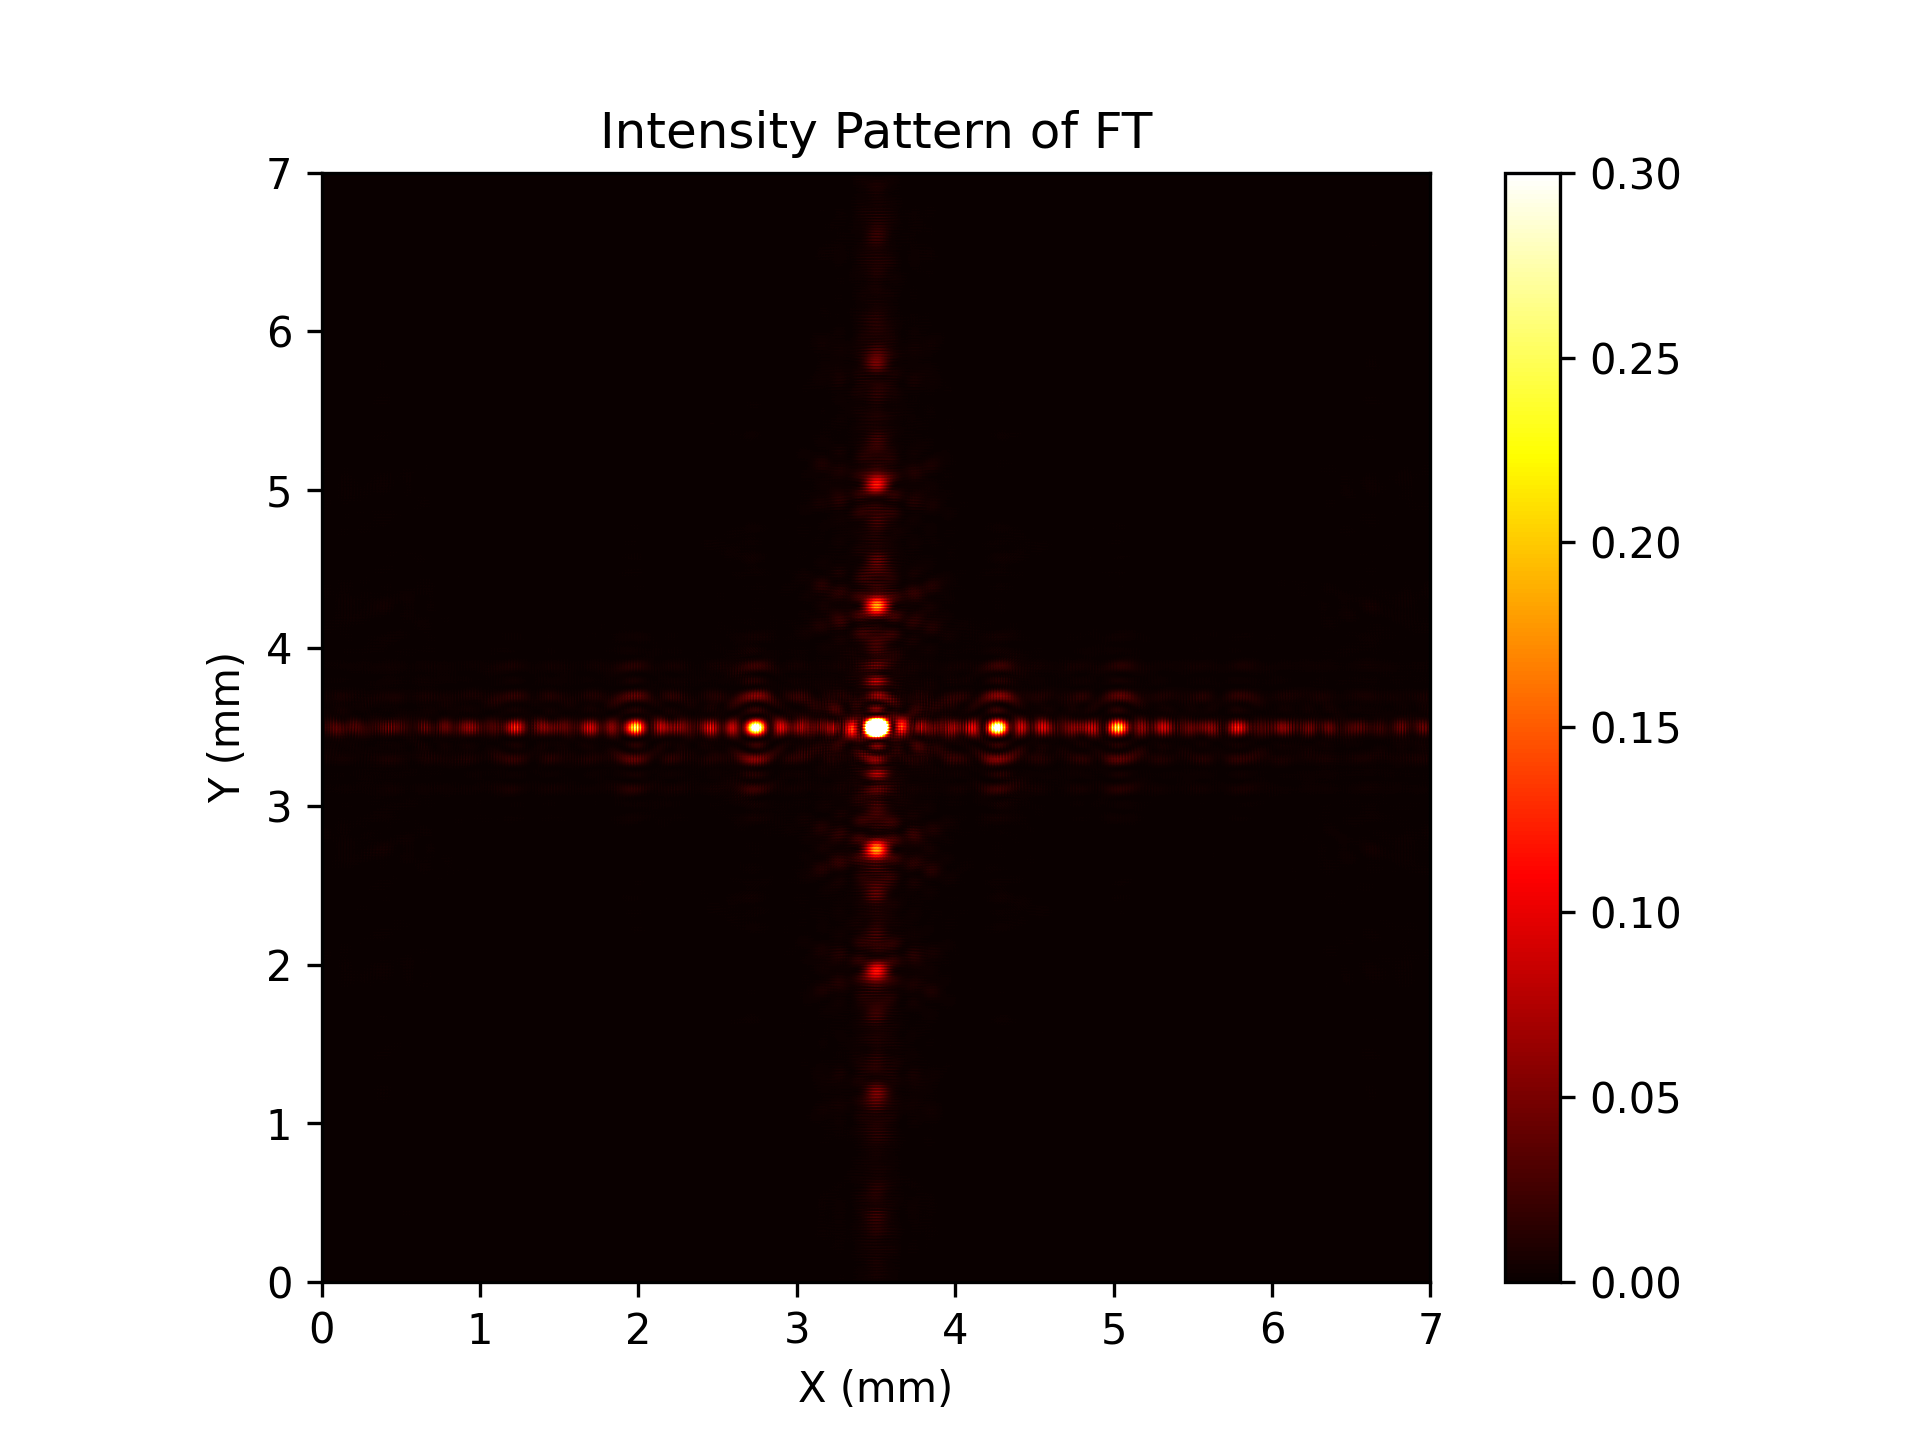
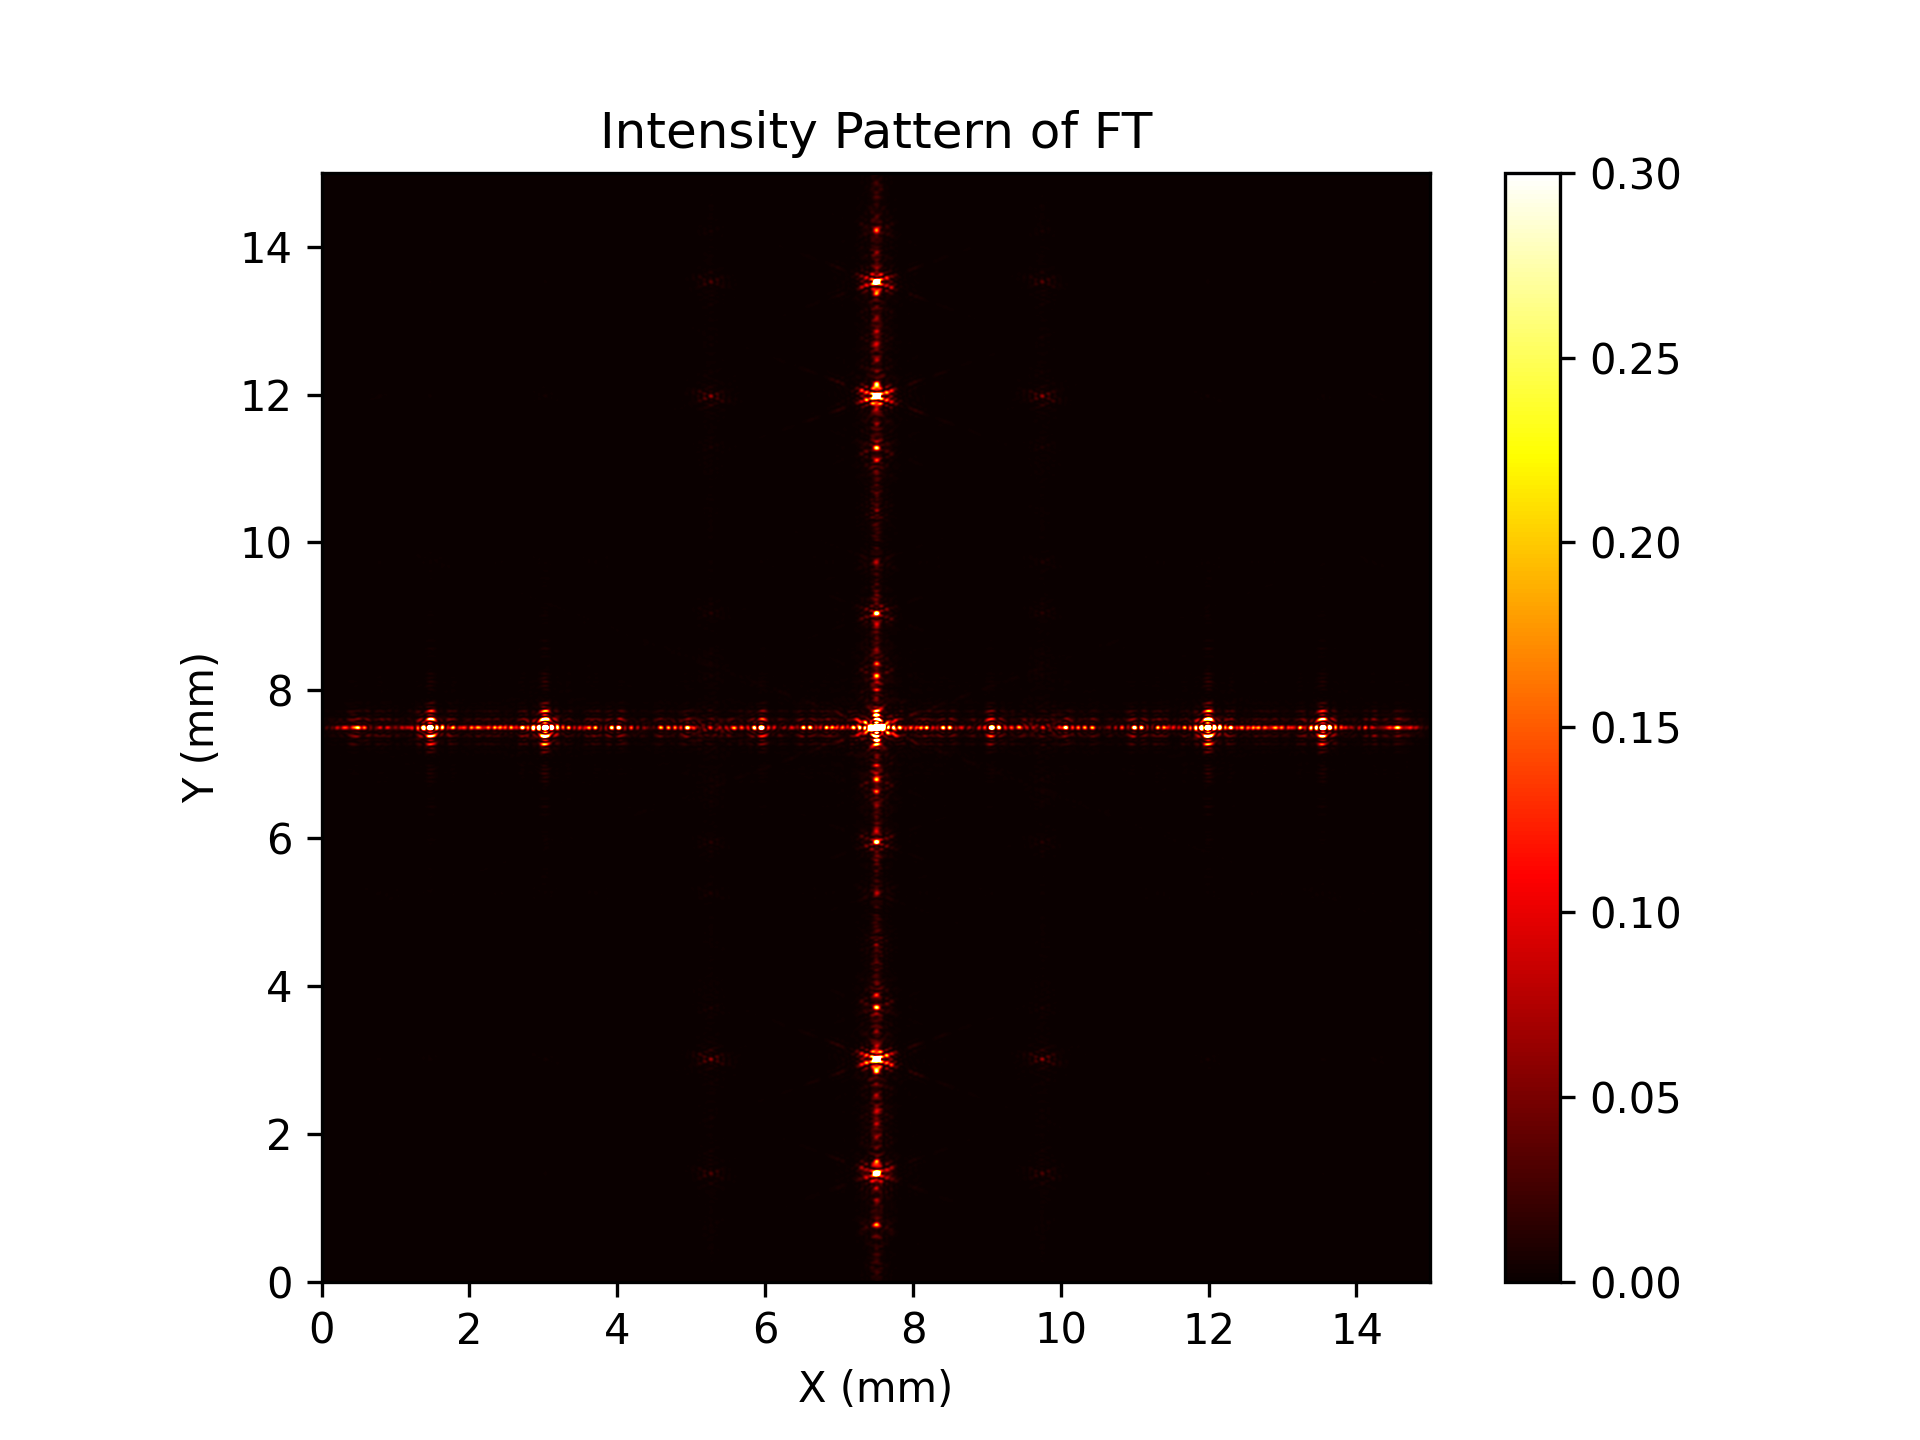
regreg

diff --git a/LP/OFT_new.py b/LP/OFT_new.py
@@ -3,10 +3,52 @@ import matplotlib.pyplot as plt
 import matplotlib.image as mpimg
 import numpy as np
 
-f=0.2*m # focal length of the lens
-gridsize=7*mm # size of the grid to adjust the resolution
+f=0.2475*m # focal length of the lens
+gridsize=15*mm # size of the grid to adjust the resolution
 wavelength=633*nm
+lambda_1 = 633 * (10**(-9)) # m
 
+# calcular as distâncias certas
+pixeis = 4096
+
+
+# Tamanho real de AB em metros
+alturatotal_unidadespc = 724
+larguratotal_unidadespc = 964
+altura_AB_unidades_pc = 290.03
+largura_AB_unidades_pc = 248.03
+pixeis_altura_AB = pixeis * altura_AB_unidades_pc / alturatotal_unidadespc
+pixeis_largura_AB = pixeis * largura_AB_unidades_pc / larguratotal_unidadespc
+print('Altura de AB em pixeis para uma altura de imagem de ' + str(pixeis) + ' pixeis: ' + str(pixeis_altura_AB) + ' pixeis') 
+print('Largura de AB em pixeis para uma largura de imagem de ' + str(pixeis) + ' pixeis: ' + str(pixeis_largura_AB) + ' pixeis')
+
+# em metros
+altura = 5.5 * (10**(-3)) # m
+largura = 5 * (10**(-3)) # m
+alturatotal_metros = alturatotal_unidadespc * altura / altura_AB_unidades_pc
+print('A altura total da imagem em metros é ' + str(alturatotal_metros) + ' m')
+
+
+
+# calcular o tamanho para AB em pixeis
+
+# 1 é o índice da calibração - foram feitas várias medições para obter a calibração
+craveira_1 = 0.004 # m
+len_1 = 491.22
+len_B_1 = 407.46
+len_A_1 = 398.76
+distancia_real_B = len_B_1 * craveira_1 /len_1 # distância no eixo dos xx em metros
+distancia_real_A = len_A_1 * craveira_1 /len_1 # distância no eixo dos yy em metros
+# conversão para unidades de frequência:
+frequencia_B_x = distancia_real_B / (lambda_1 * f)
+frequência_A_y = distancia_real_A / (lambda_1 * f)
+print('Frequência espacial das riscas horizontais de A = ' + str(frequência_A_y) + ' ciclos/m')
+print('Número de riscas horizontais de A = ' + str(altura/2 * frequência_A_y) + ' ciclos')
+print('Largura de riscas horizontais de A = ' + str(1/frequência_A_y) + ' m = ' + str(pixeis_altura_AB / altura / frequência_A_y) + ' pixeis')
+
+print('Frequência espacial das riscas verticais de B = ' + str(frequencia_B_x) + ' ciclos/m')
+print('Número de riscas verticais de B = ' + str(largura/2 * frequencia_B_x) + ' ciclos')
+print('Largura de riscas verticais de B = ' + str(1/frequencia_B_x) + ' m = ' + str(pixeis_largura_AB / largura / frequencia_B_x) + ' pixeis')
 
 
 
